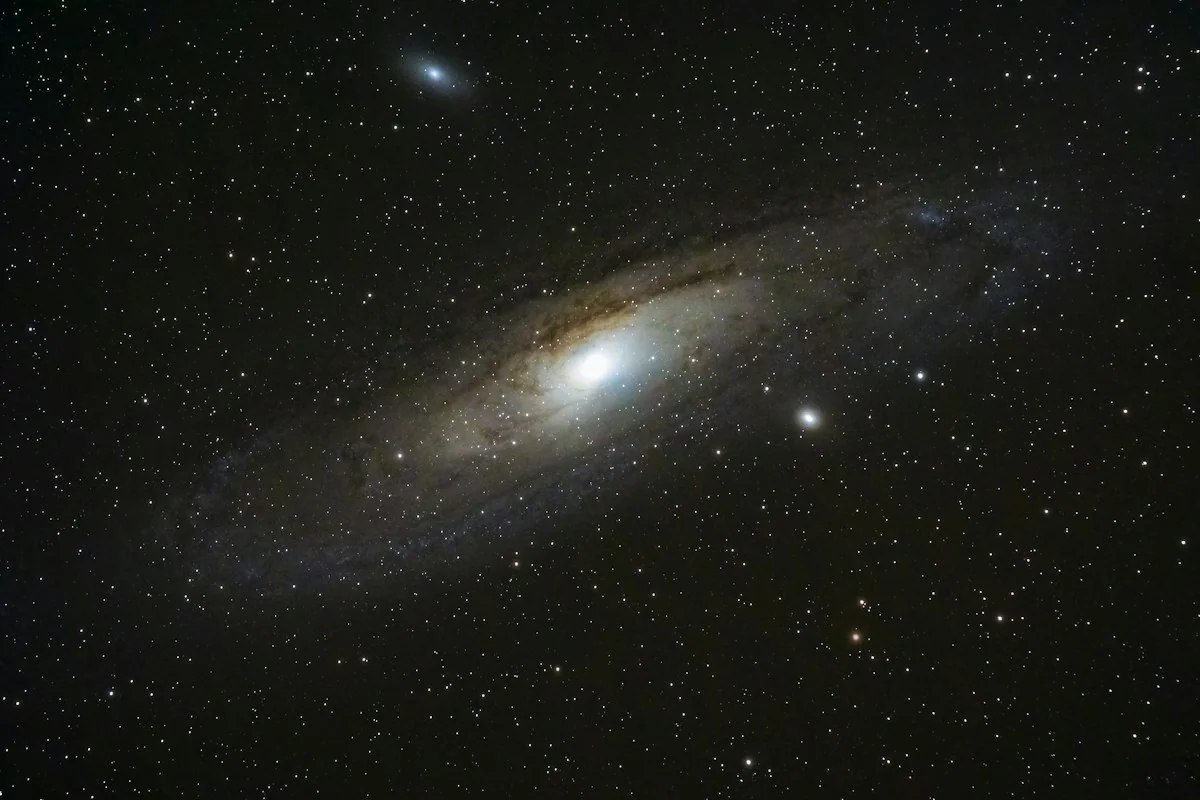
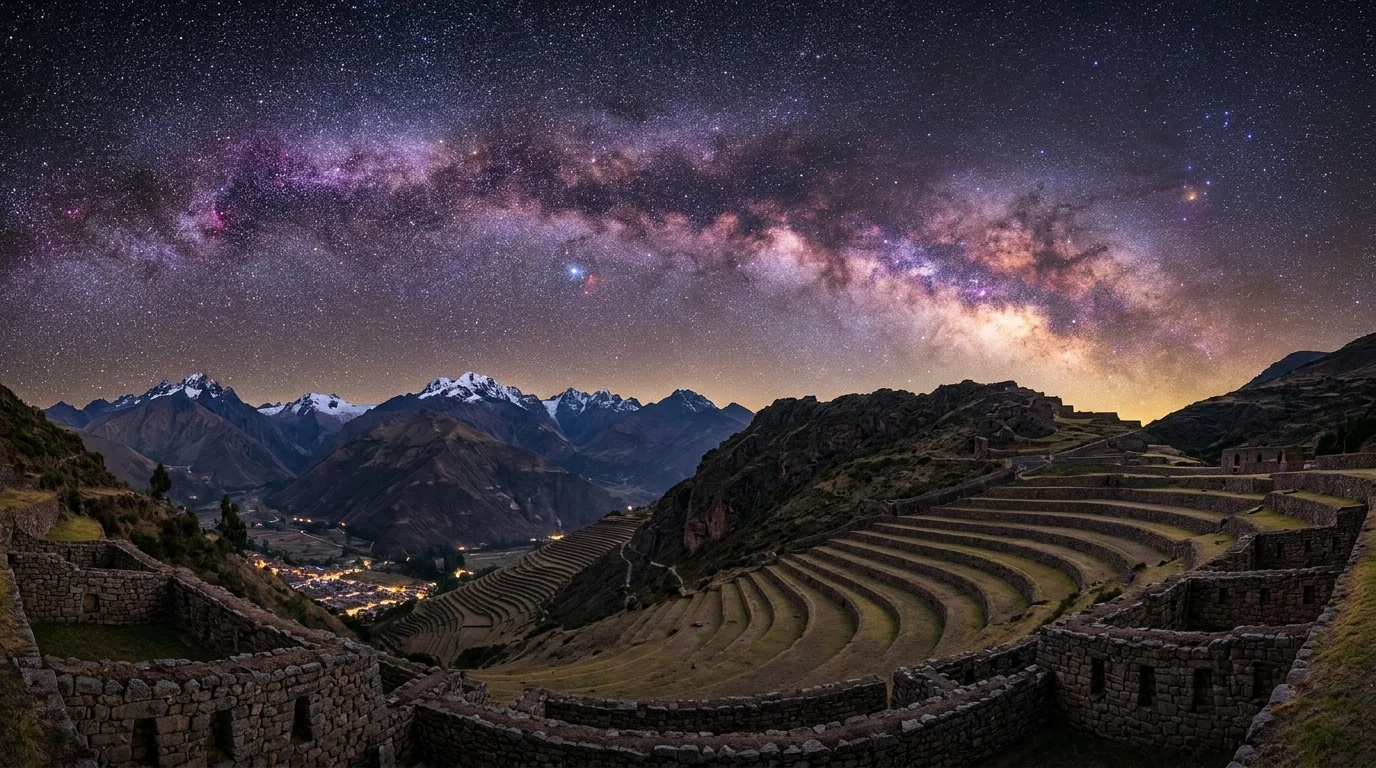
feat: replace generic galaxy with authentic Andean cosmovision and Sacred Valley archaeoastronomy night sky

diff --git a/src/data/cuscoConfig.ts b/src/data/cuscoConfig.ts
@@ -739,7 +739,7 @@ export const cuscoConfig: CuscoMasterConfig = {
       tagline: 'Las constelaciones oscuras: La Llama Negra (Yacana) y la Cruz del Sur.',
       description: 'Sesión nocturna con telescopio de alta precisión y sabio andino (Paqo) en la tranquilidad del Valle Sagrado.',
       image: '/images/bento-astronomia.webp',
-      fallbackImage: 'https://images.unsplash.com/photo-1506703719100-a0f3a48c0f86?q=80&w=1200&auto=format&fit=crop',
+      fallbackImage: '/images/bento-astronomia.webp',
       colSpanDesktop: 1,
       badgeText: 'CIELO LIMPIO 3,000M',
     },
